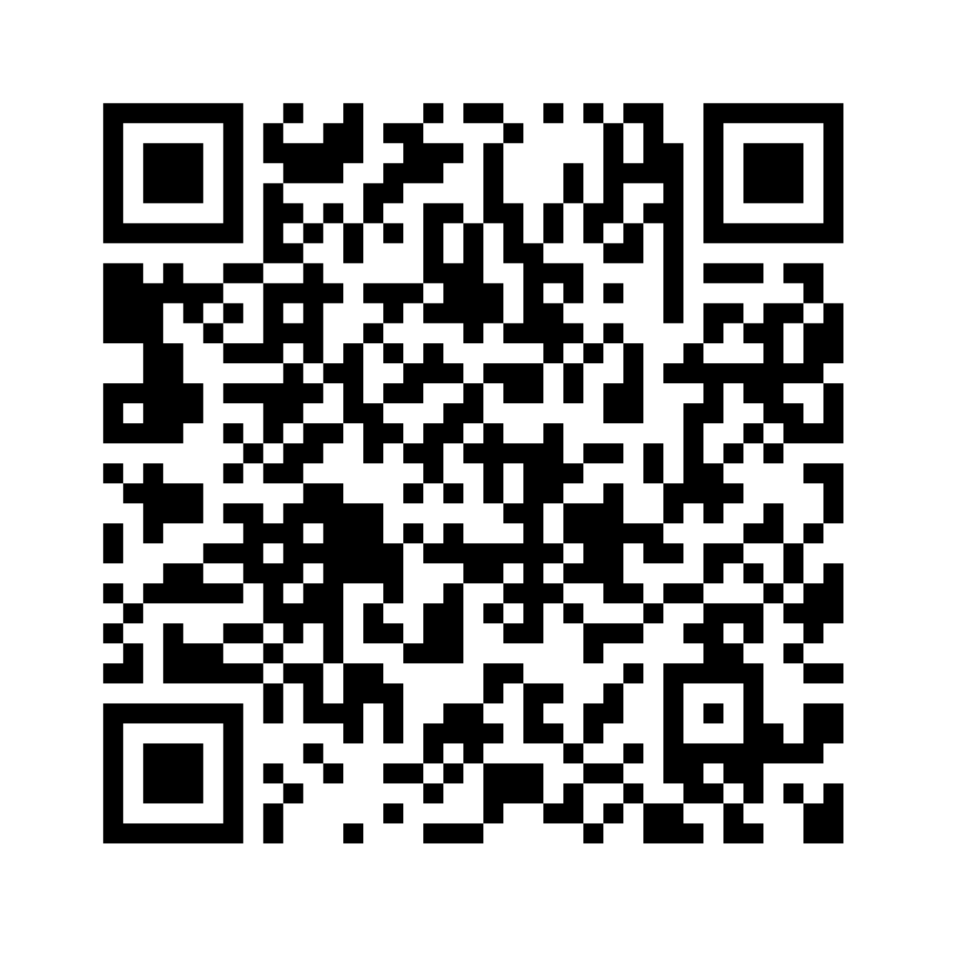
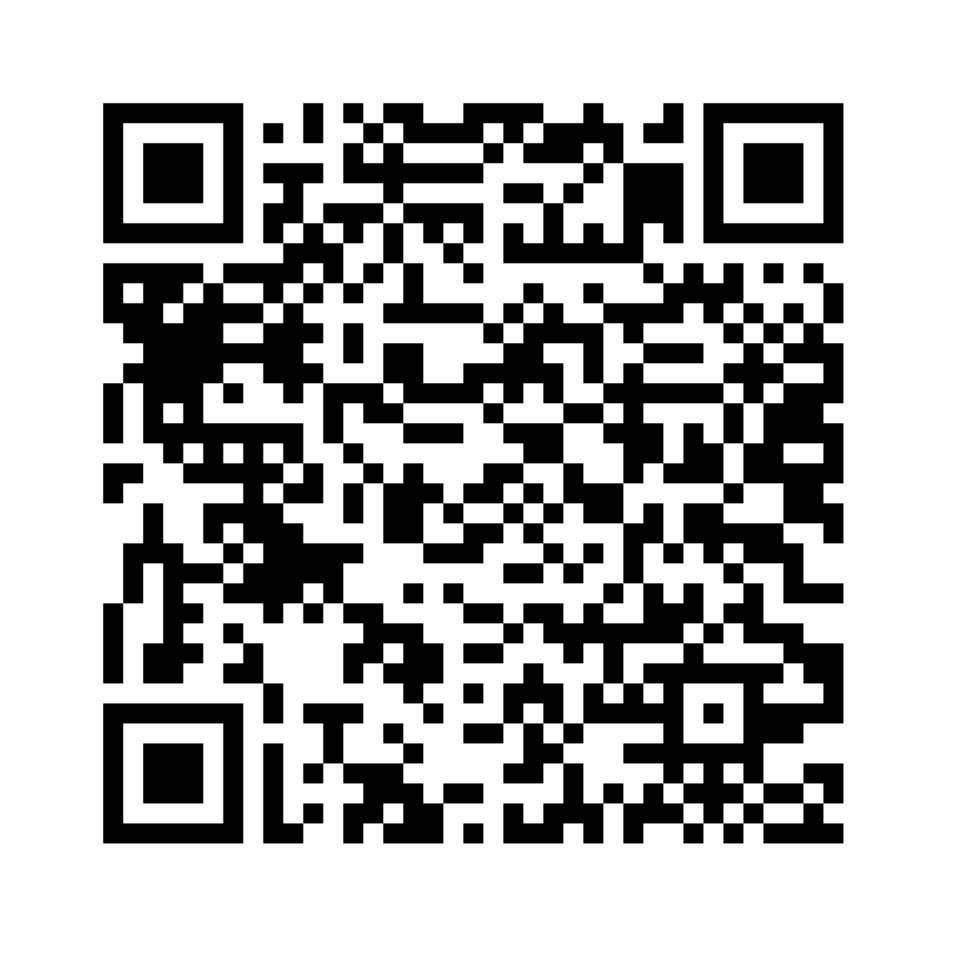
update coupon link

Changed region(s): [[0.0938, 0.0938, 0.875, 0.9062]]

diff --git a/src/app/components/Liff.tsx b/src/app/components/Liff.tsx
@@ -21,7 +21,7 @@ const Liff = ({ liffID }: ILiffProps) => {
 
   const dispatch = useAppDispatch()
   const handleLogin = () => {
-    liff.login()
+    // liff.login()
   }
   useEffect(() => {
     // Get the value of the "page" parameter within liff.state
@@ -77,16 +77,12 @@ const Liff = ({ liffID }: ILiffProps) => {
               className="rounded-full mt-4"
             />
           </div>
-          {/* <div className="font-bold mb-2 text-coffee">QR สำหรับบัตรสะสมแต้ม</div>
-        <div className="bg-[#988686] h-[200px] w-[300px] rounded-sm">
-          <Image
-            src={"/qr.png"}
-            alt="qr"
-            height={80}
-            width={80}
-            className="rounded-full mt-4"
-          />
-        </div> */}
+          <a
+            href="https://lin.ee/qAGMKwx"
+            className="font-bold mb-2 text-coffee underline underline-offset-4"
+          >
+            ไปยังหน้าสะสมแต้ม
+          </a>
         </div>
       )}
     </div>

diff --git a/src/app/page.tsx b/src/app/page.tsx
@@ -52,6 +52,14 @@ export default function Home() {
                 className="rounded-full shadow-xl border-4 border-white"
               />
             </div>
+            <div className="flex justify-center mt-4 w-[100px] h-[100px] mx-auto">
+              <Image
+                src="/coffee-qr.png"
+                alt="qr"
+                height={200}
+                width={200}
+              ></Image>
+            </div>
           </div>
           <div className=" lg:mt-0 mt-[20px] flex flex-col items-center justify-center">
             <div className="flex text-center">

diff --git a/next.config.js b/next.config.js
@@ -8,6 +8,12 @@ const nextConfig = {
         port: "",
         pathname: "**",
       },
+      {
+        protocol: "https",
+        hostname: "qr-official.line.me",
+        port: "",
+        pathname: "**",
+      },
     ],
   },
   env: {
